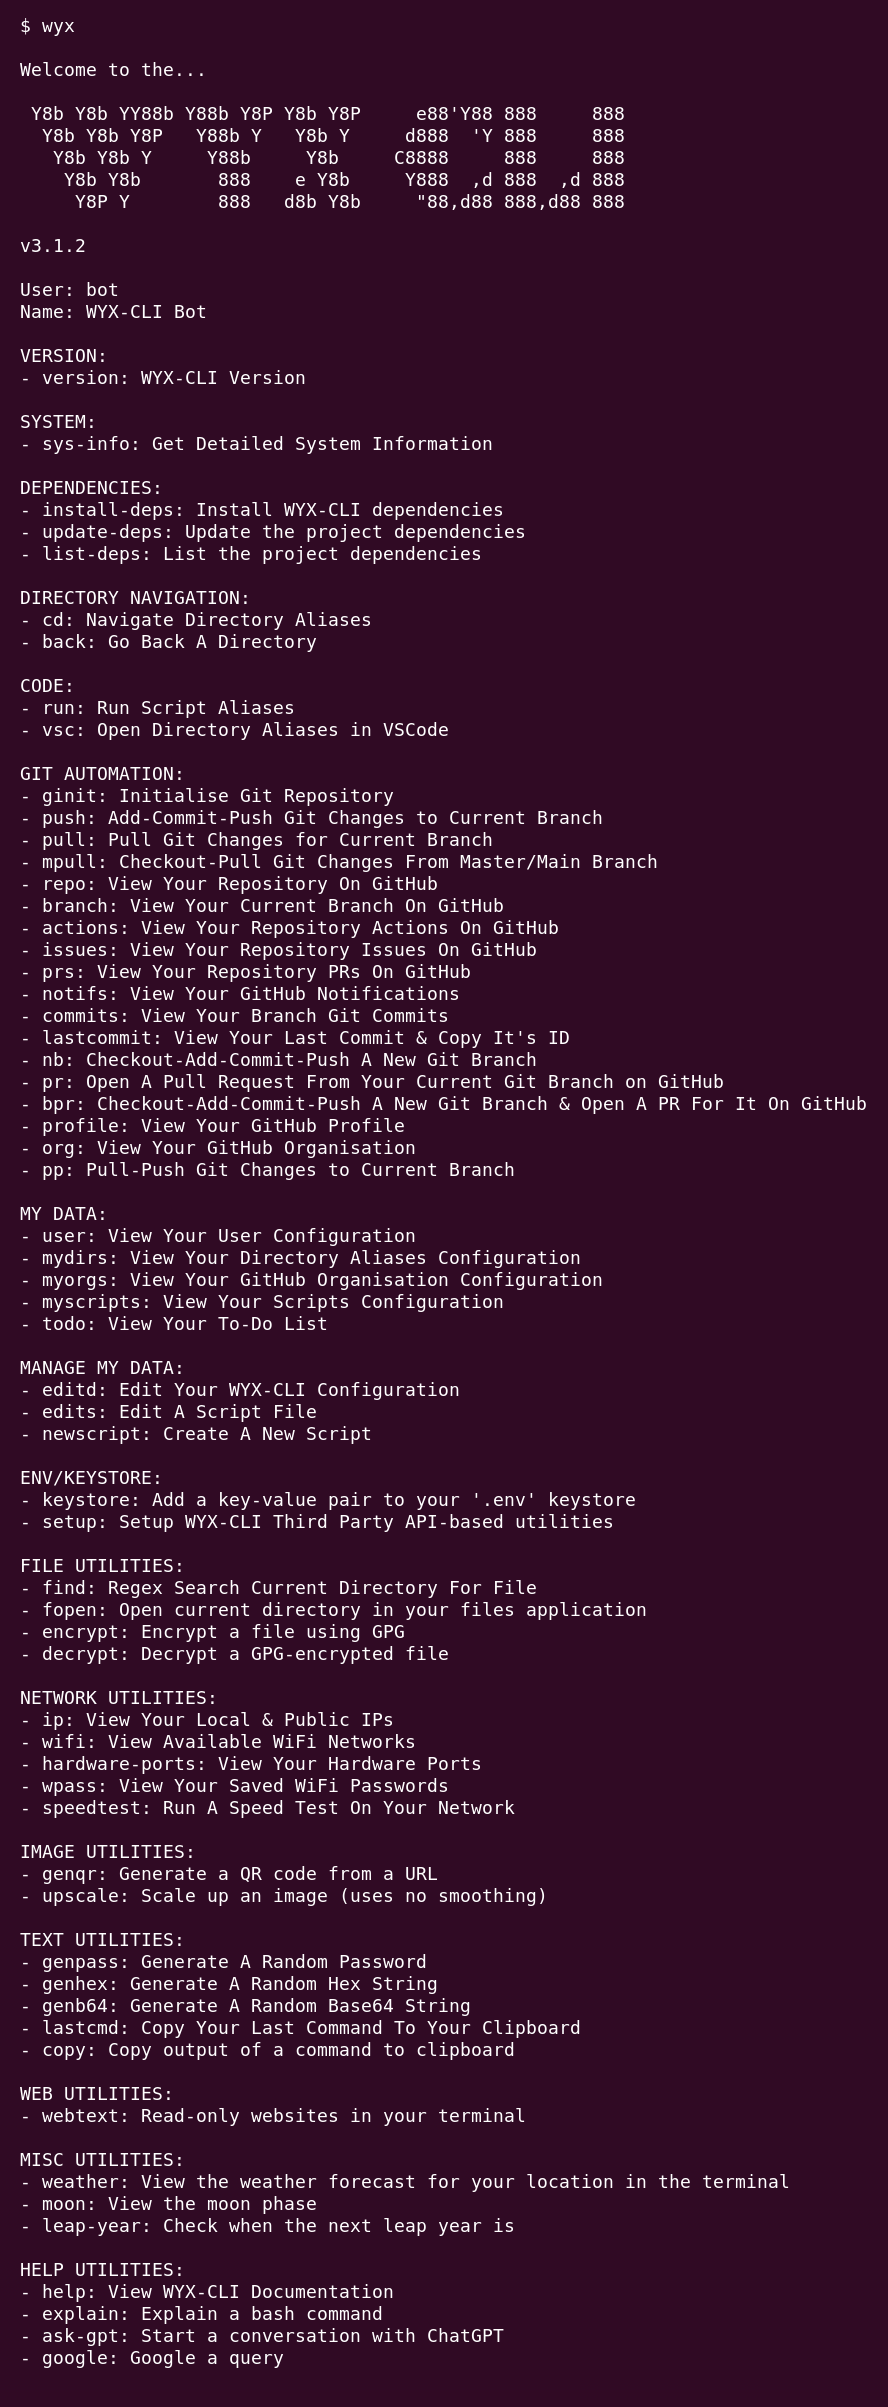
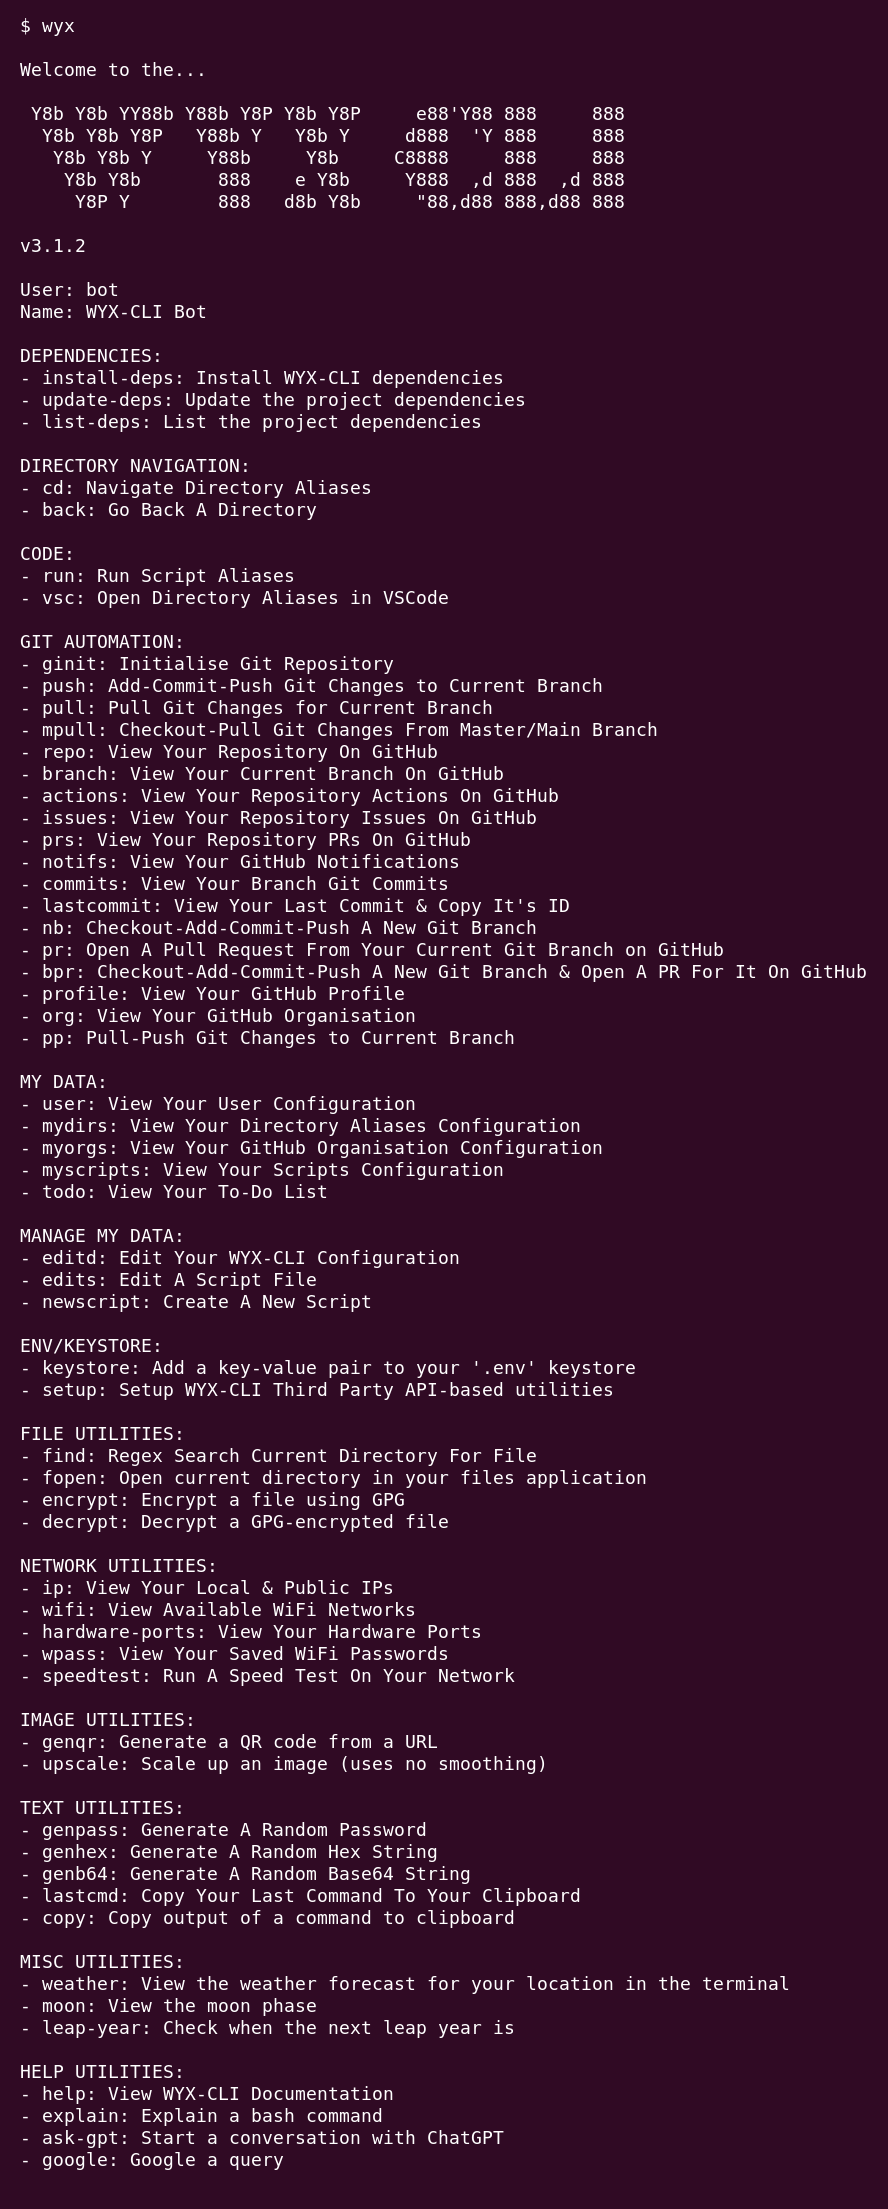
GH-Action: auto-update README & cache files

diff --git a/.github/README.md b/.github/README.md
@@ -130,12 +130,6 @@ Please note any command with an argument in angle brackets below (ie. `<branch>`
 <i>**\*\*Note: all commands below should be preceded by the `wyx` command, this was ommitted for readability.\*\***</i>
 <br>
 
-### VERSION:
-- `version`: WYX-CLI Version
-
-### SYSTEM:
-- `sys-info`: Get Detailed System Information
-
 ### DEPENDENCIES:
 - `install-deps`: Install WYX-CLI dependencies
 - `update-deps`: Update the project dependencies
@@ -208,9 +202,6 @@ Please note any command with an argument in angle brackets below (ie. `<branch>`
 - `genb64`: Generate A Random Base64 String
 - `lastcmd`: Copy Your Last Command To Your Clipboard
 - `copy`: Copy output of a command to clipboard
-
-### WEB UTILITIES:
-- `webtext`: Read-only websites in your terminal
 
 ### MISC UTILITIES:
 - `weather`: View the weather forecast for your location in the terminal
